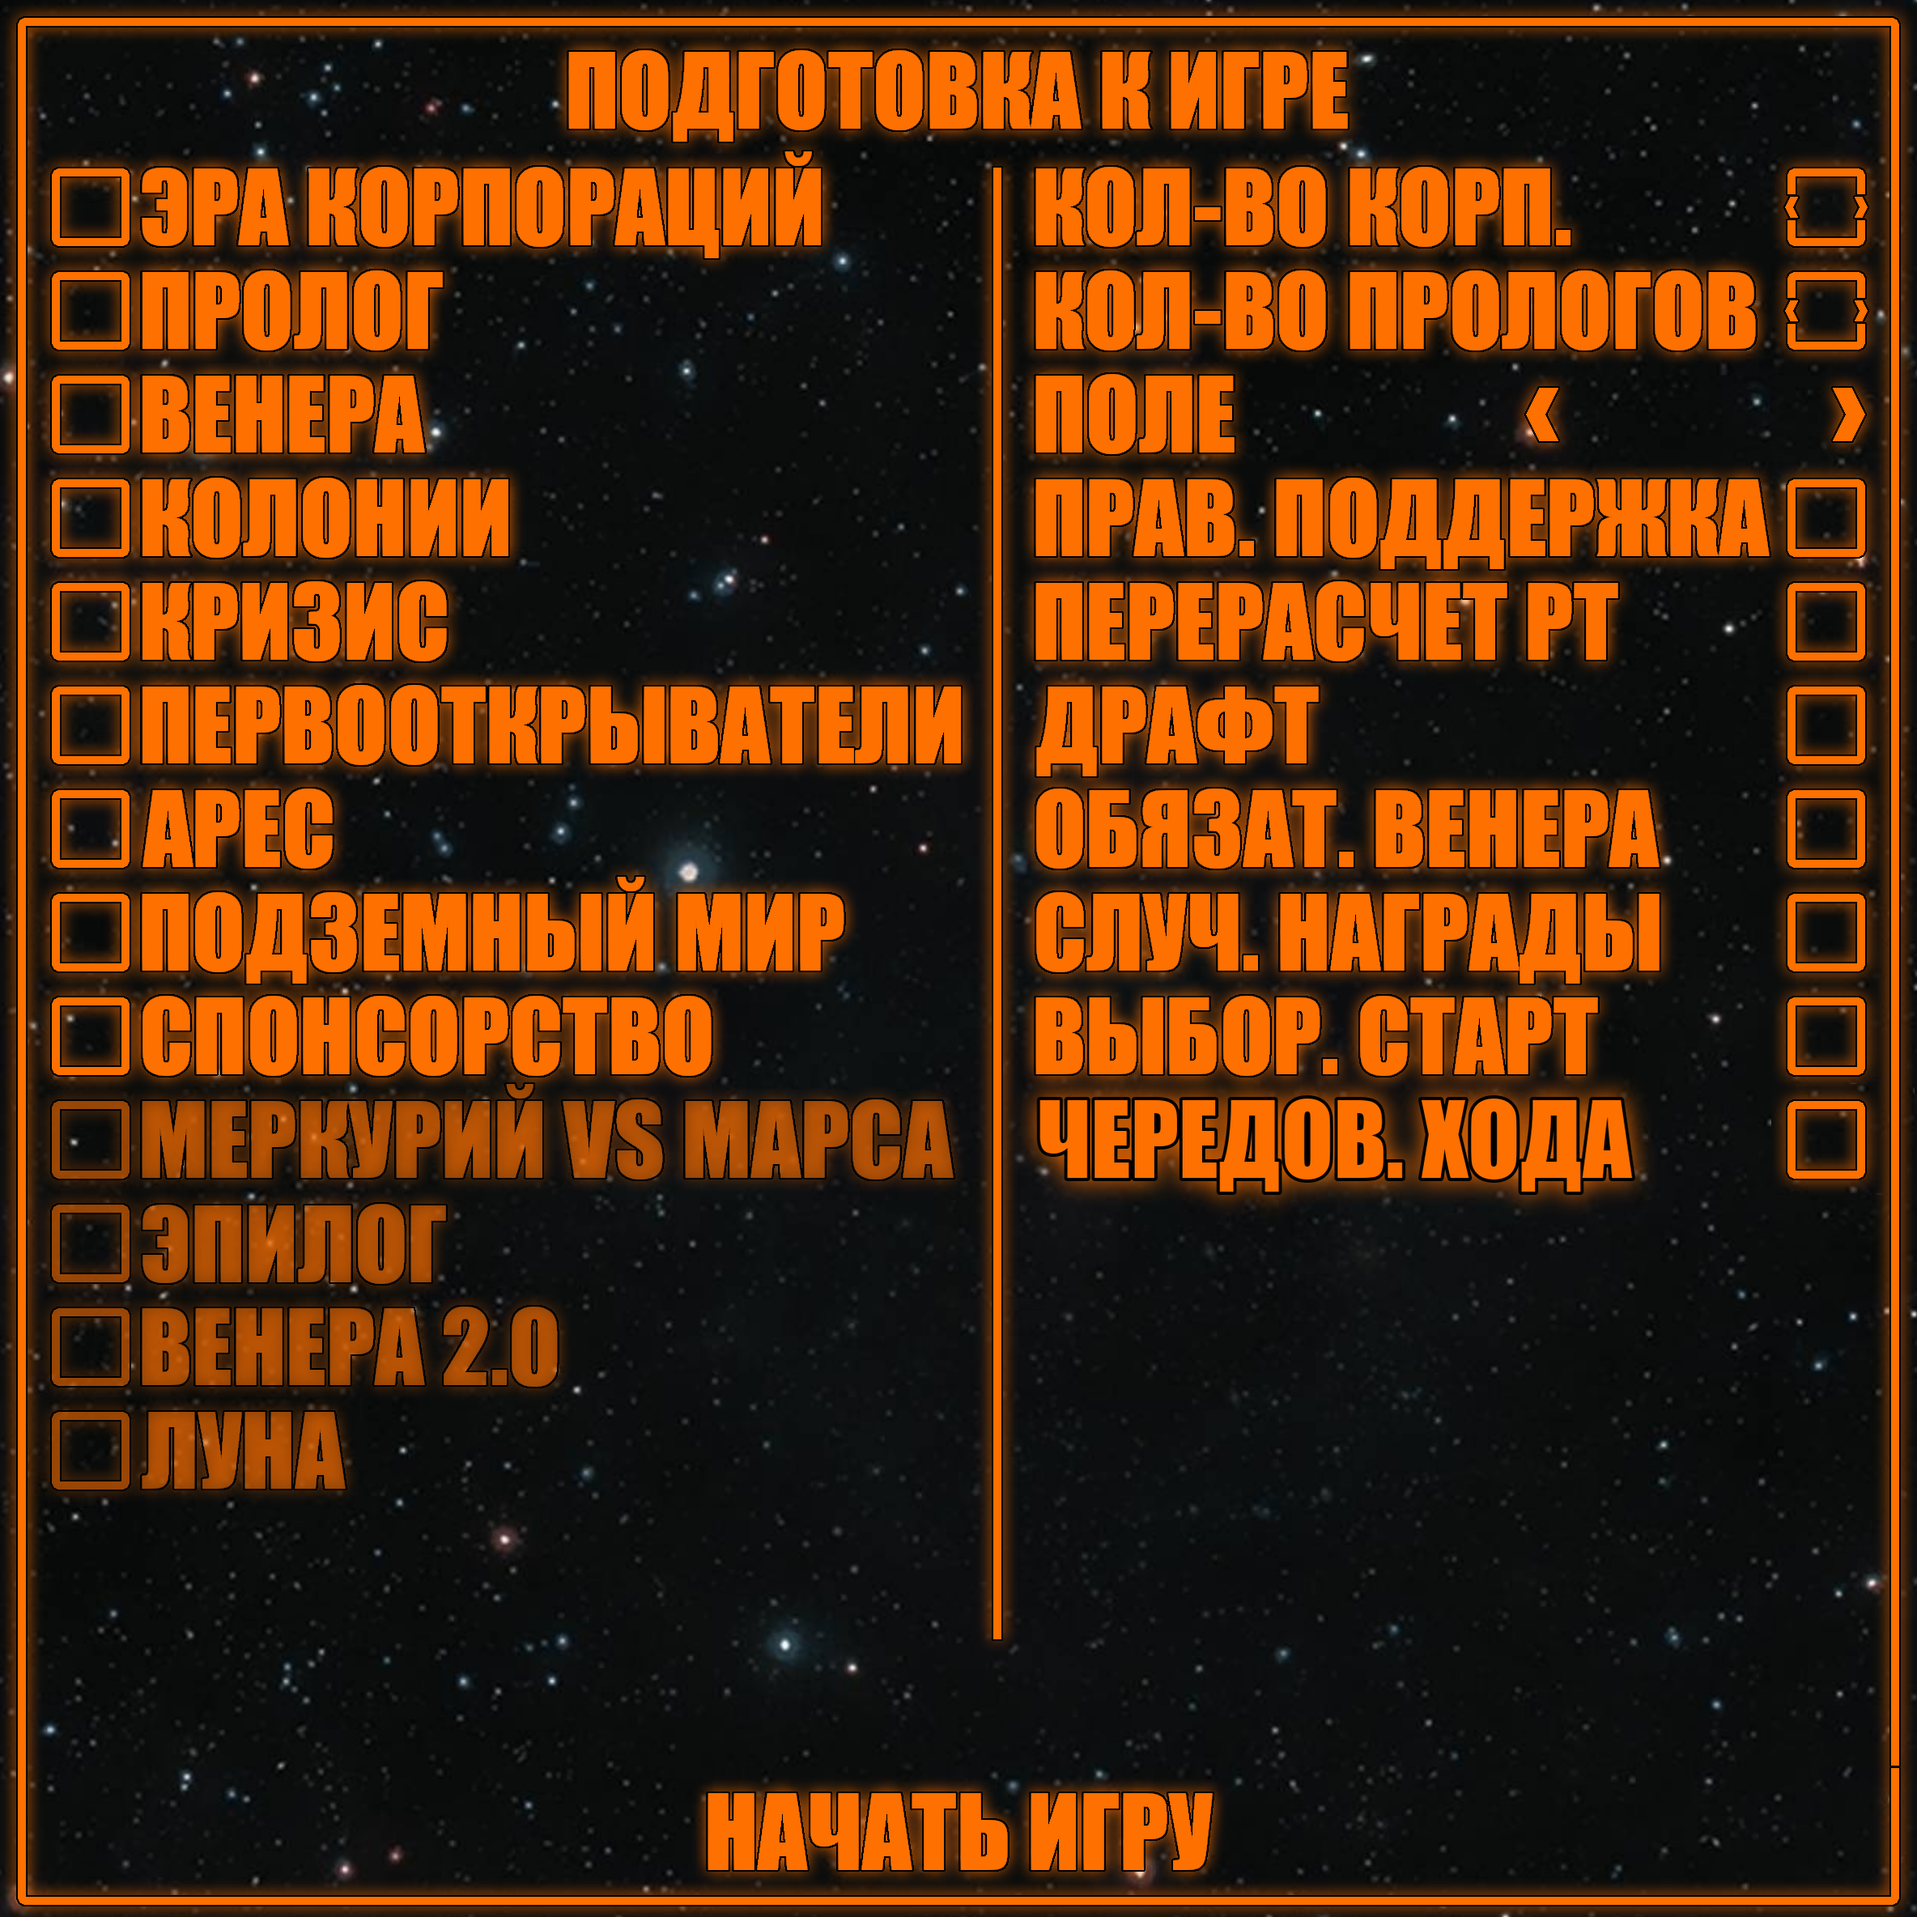
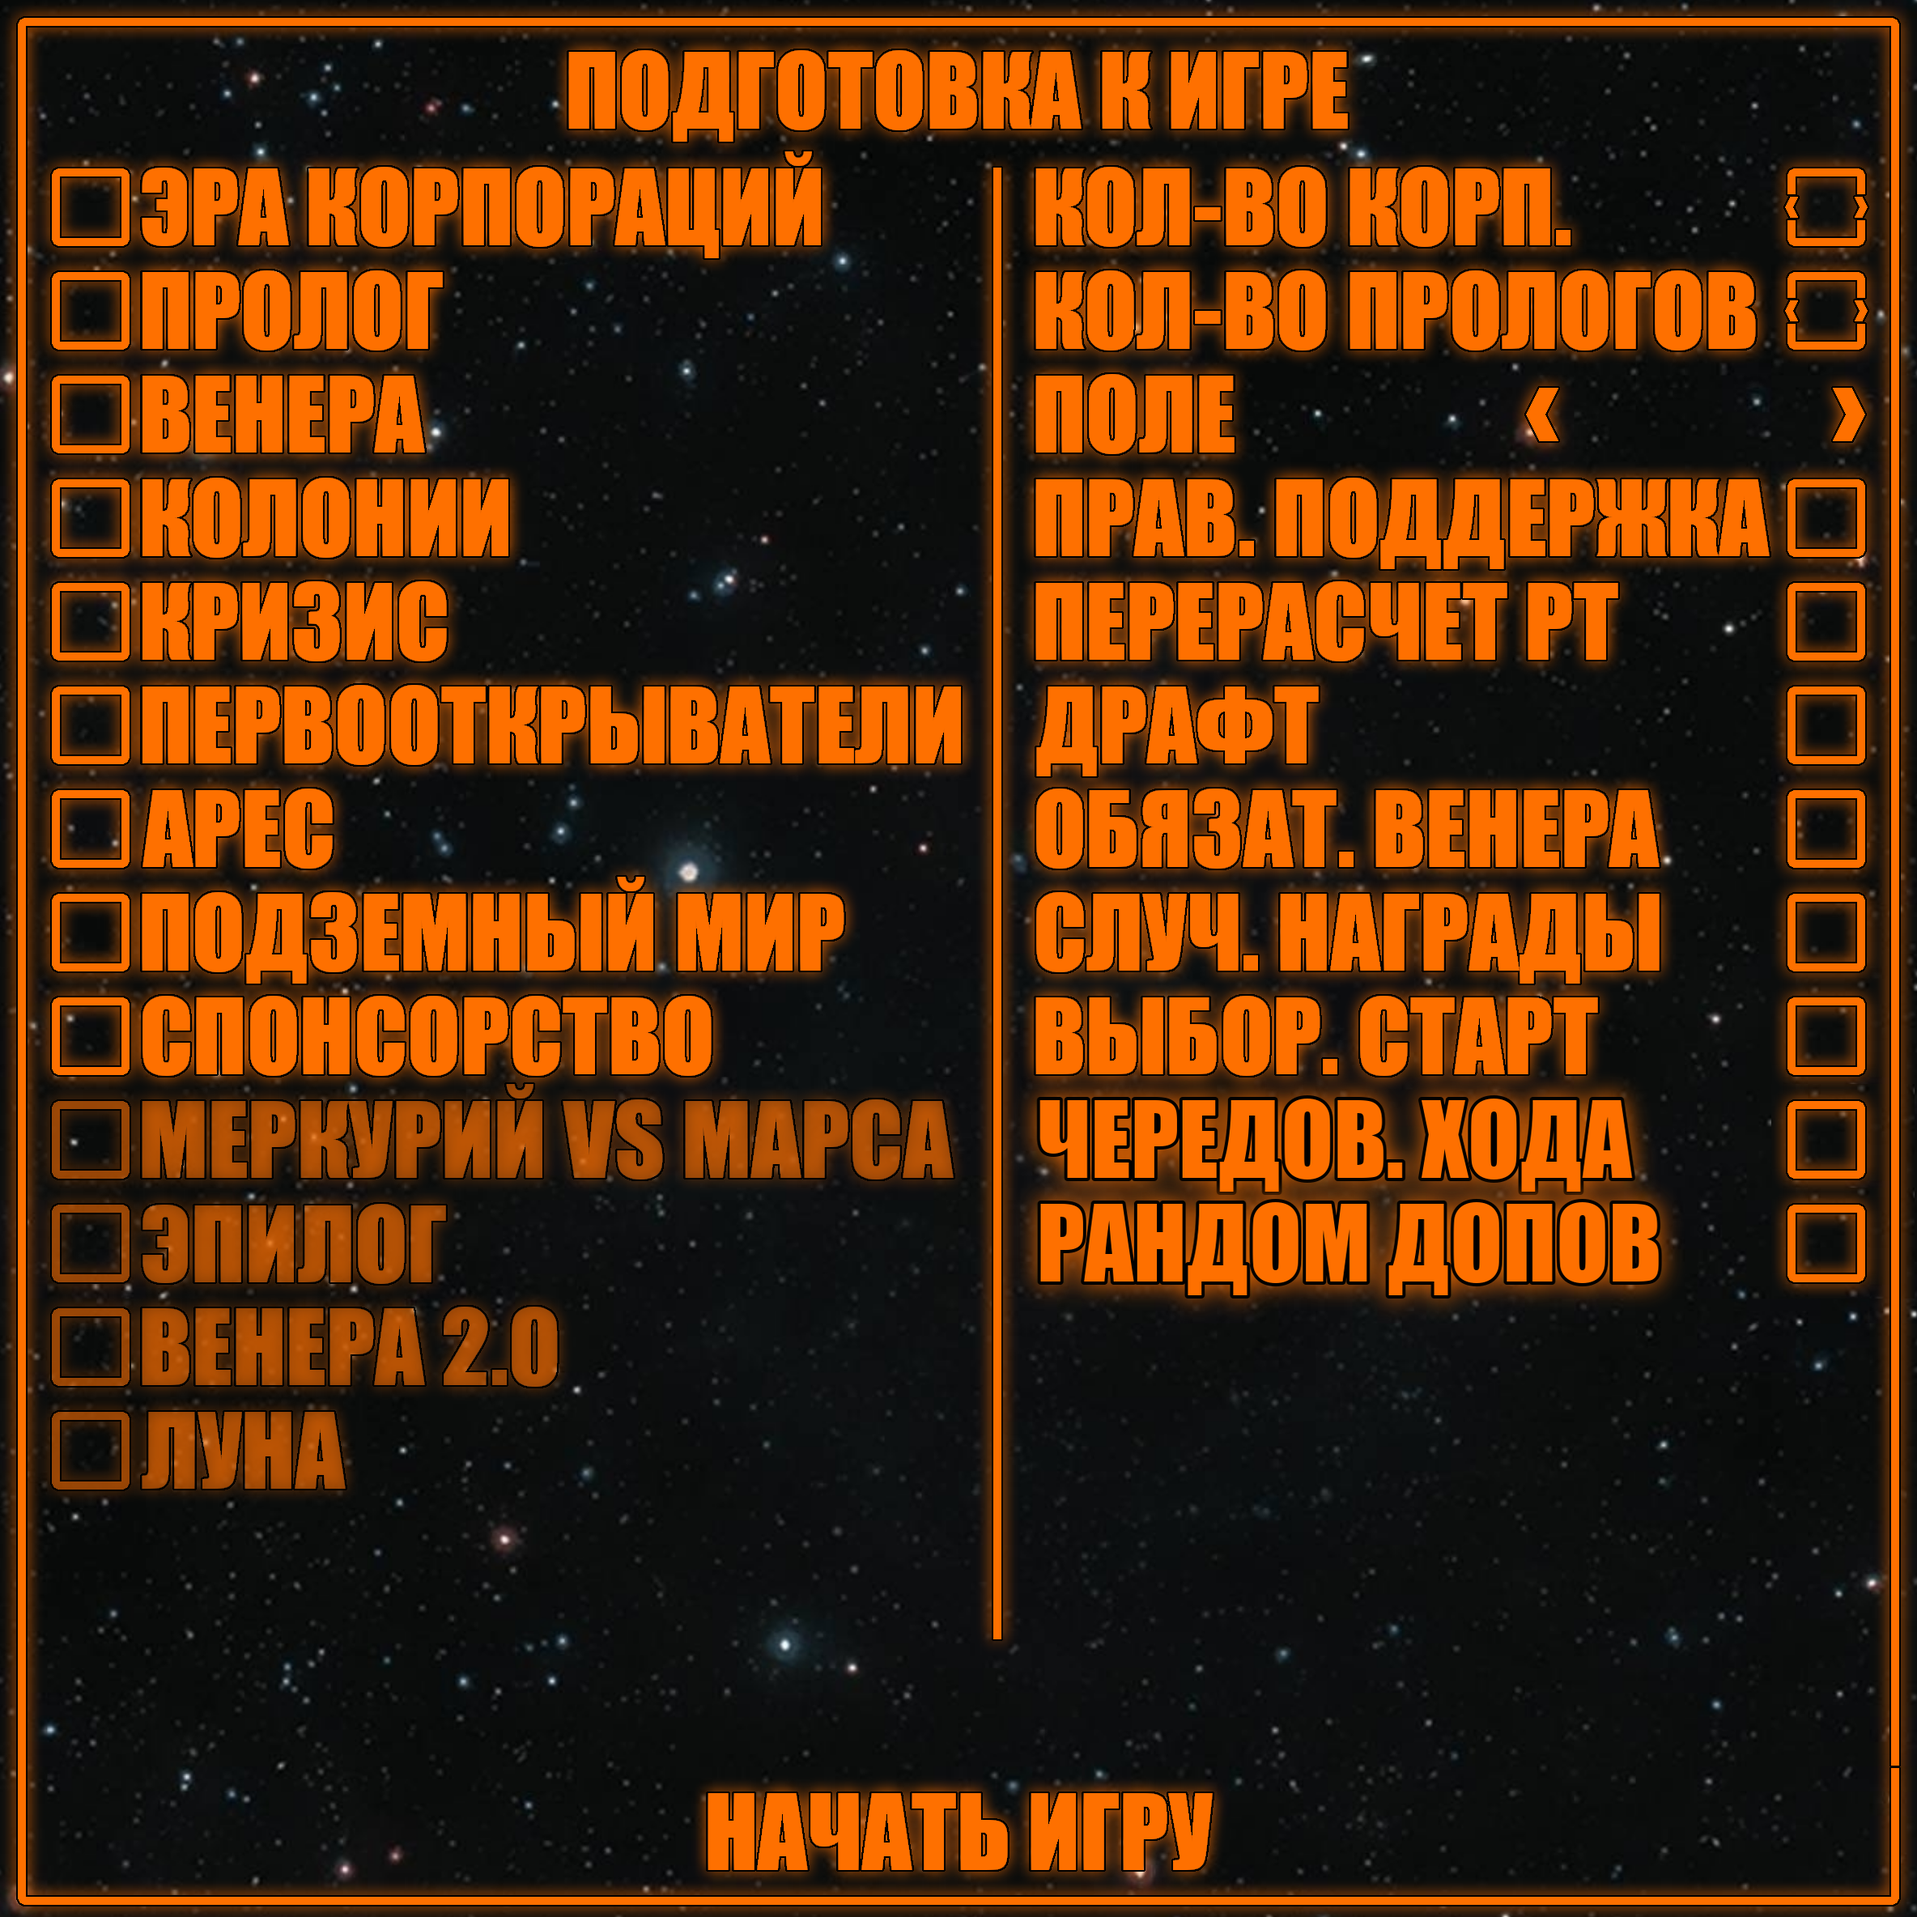
feat: add random expansions option

Changed region(s): [[0.5312, 0.5938, 0.875, 0.6875], [0.9062, 0.625, 1.0, 0.6875]]

diff --git a/CHANGELOG.md b/CHANGELOG.md
@@ -7,6 +7,12 @@ The format is based on [Keep a Changelog](https://keepachangelog.com/en/1.1.0/).
 
 ### Added
 
+- **Random expansions** (new setup option «РАНДОМ ДОПОВ»). Turning it on rolls Venus, Turmoil and Colonies
+  independently (50% each, like a die roll: any combination from none to all three is possible). If Venus is rolled,
+  «Обязат. Венера» is rolled too (50%). Without Venus it is always off. The result is shown as checkmarks and in chat.
+  While the option is on, these four options are greyed out and can't be clicked. Turning it off clears them and
+  makes them clickable again. The
+  option label is drawn on the settings tile image (`assets/settings-tile.png`).
 - **Snap points for colony slots.** Every slot of the colony row gets a global snap point (`Global.setSnapPoints`),
   so colonies placed by hand snap into place. This works in both the normal and the custom start.
 - **Clear game-over screen.** When the final production phase ends the game, the on-screen tip (and the chat) shows
@@ -53,6 +59,9 @@ The format is based on [Keep a Changelog](https://keepachangelog.com/en/1.1.0/).
 
 ### Fixed
 
+- **«Обязат. Венера» without Venus.** The option could be turned on without the Venus expansion. The game-end check
+  would then read the Venus board, which is not on the table. Now it can only be turned on together with Venus, and
+  turning Venus off clears it.
 - **Custom start («Выбор. старт») never finishing, reworked around the ready button.** The old flow waited until
   every player had exactly one token of each enabled type in a hidden lower draft hand, without using the «Готов»
   button. With Colonies it could never finish: colony tokens have «can be held in hand» turned off (`Hands = false`),

diff --git a/README.md b/README.md
@@ -8,6 +8,8 @@ remaining bugs in small, isolated steps.
 
 ## Latest changes
 
+- **Added:** setup option «РАНДОМ ДОПОВ»: Venus, Turmoil and Colonies are rolled at random (50% each), and with Venus
+  also whether Venus is mandatory.
 - **Fixed:** custom start («Выбор. старт») now works like the group plays: place the chosen tokens, press «Готов».
   Leftovers return to their decks and colony slots are aligned automatically. Colony slots now have snap points.
 - **Added:** a clear «ИГРА ОКОНЧЕНА» summary at game end, adapted to the expansions in play: why the game ended, which
@@ -149,6 +151,7 @@ All options are set on the settings tile before the game starts:
 | Random milestones & awards | Replaces the board's milestones and awards with 5 (6 with Venus) random ones out of 62 |
 | Custom start | Players get 2–4 milestone, award, colony and sponsor tokens and choose which ones go on the table |
 | Alternating turns («ЧЕРЕДОВ. ХОДА») | Off: turns always pass clockwise. On: clockwise in even generations, counter-clockwise in odd ones |
+| Random expansions («РАНДОМ ДОПОВ») | Rolls Venus, Turmoil and Colonies (50% each); with Venus also rolls «Обязат. Венера» (50%). Locks these options; turning it off clears and unlocks them |
 
 ## Development
 
